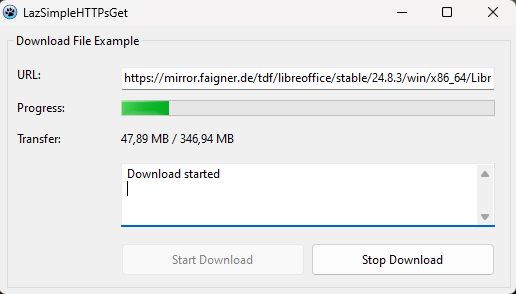
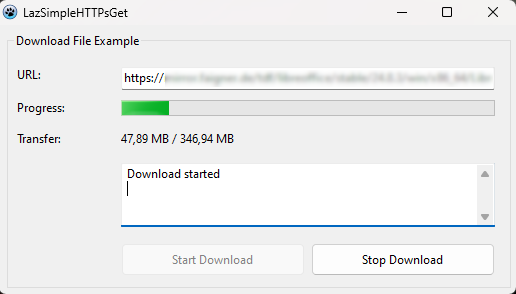
Update readme and example screenshot.

Changed region(s): [[0.3101, 0.2449, 0.9612, 0.3061]]

diff --git a/README.md b/README.md
@@ -2,26 +2,26 @@
 
 ![Example Application](https://github.com/dryas/LazSimpleHTTPsGet/blob/main/doc/example_screenshot.png)
 
-LazSimpleHTTPsGet is a simple asynchronous (threads) file download unit with progress indicator. It supports downloads from http and https sources as well and the developer can choose if he wants to use Ararat Synapse or Free Pascal/FCL based TFPHttpClient. It supports OpenSSLv1 and OpenSSLv3.
+LazSimpleHTTPsGet is a simple asynchronous (threads) file download Unit with progress indicator for Lazarus/Free Pascal. It supports downloads from HTTP and HTTPS sources and the developer can choose if he wants to use Ararat Synapse or FCL/TFPHttpClient in the background. That said it supports OpenSSLv1 and OpenSSLv3.
+
+The Unit has been tested with Windows but should also work on other Systems which are supported by FCL/TFPHttpClient or Synapse (Linux, Mac etc.).
 
 ## Synapse vs. TFPHttpClient:
 
-At the moment of writing the official stable version of FPC (3.2.x) only supports SSL v1.1.x which is end of life since January 24, 2024. If you want to get SSL v3 running with the TFPHttpClient based integration, you need to switch over to the most recent trunk version of FPC (3.3.x) which supports SSL v3. As it's not an option for everyone to switch their development environment over to a (potentially) unstable trunk version you can simply switch to Ararat Synapse by an compiler flag which offically supports SSL v3.
-
-## Where to get the OpenSSL DLLs?
-
-If you don't want to compile the DLLs by yourself, you can, for example, download them from the following location: [FireDaemon OpenSSL](https://kb.firedaemon.com/support/solutions/articles/4000121705-openssl-binary-distributions-for-microsoft-windows "FireDaemon OpenSSL")
+At the moment of writing the official stable version of FPC (3.2.x) only supports SSL v1.1.x which is end of life since January 24, 2024. If you want to get SSL v3 running with the FCL/TFPHttpClient based integration, you need to switch over to the most recent trunk version of FPC (3.3.x) which supports SSL v3. As it is not an option for everyone to switch their development environment over to a (potentially) unstable trunk version you can simply switch to Ararat Synapse by a compiler flag which already officially supports SSL v3.
 
 ## How to install?
 
-Simply drop in the lazsimplehttpsget.pas unit in to your project and take care that the FCL or Synapse is linked as a requirement to the project.
+Simply drop in the lazsimplehttpsget.pas Unit in to your project and take care that FCL or Synapse is linked as a requirement to the project.
+
+![Example Application](https://github.com/dryas/LazSimpleHTTPsGet/blob/main/doc/setrequirements.png)
 
 ## Where do I get the requirements?
 
 FCL is shipped as part of the Free Pascal Compiler, so you don't need to install anything. Simply add the FCL as a requirement to your project.
 For Synapse you can install it using FpcUpDeluxe or download it from their GitHub account: [Ararat Synapse](https://github.com/geby/synapse "Ararat Synapse")
 
-![Example Application](https://github.com/dryas/LazSimpleHTTPsGet/blob/main/doc/setrequirements.png)
+If you want to use SSL you need to install OpenSSL to your system or store the OpenSSL DLLs in the same directory as your compiled binaries.
 
 ## How to switch between FCL and Synapse?
 
@@ -29,6 +29,12 @@ You can simply add a compiler option to your project. By default (so nothing spe
 
 ![Compiler Options](https://github.com/dryas/LazSimpleHTTPsGet/blob/main/doc/compileroption.png)
 
+## Where to get the OpenSSL DLLs?
+
+As said there are two ways to fulfill the requirements to use SSL. You can install the OpenSSL libraries system wide or distribute the DLLs in the same directory like your compiled binary is stored. Both options have their pro and cons. 
+
+If you don't want to compile the DLLs by yourself, you can, for example, download them from the following location: [FireDaemon OpenSSL](https://kb.firedaemon.com/support/solutions/articles/4000121705-openssl-binary-distributions-for-microsoft-windows "FireDaemon OpenSSL")
+
 ## I found a bug or have some ideas to improve it!
 
-I'm not a Pascal expert, even if I use it for years here and then. If you found a bug or you want to improve the unit, please fill an Issue or Pull request. Any help is appreciated.
+I'm not a Pascal expert, even if I use it now for years here and then. If you found a bug or if you want to help and improve the Unit, please fill an Issue or Pull request. Any help is appreciated.
